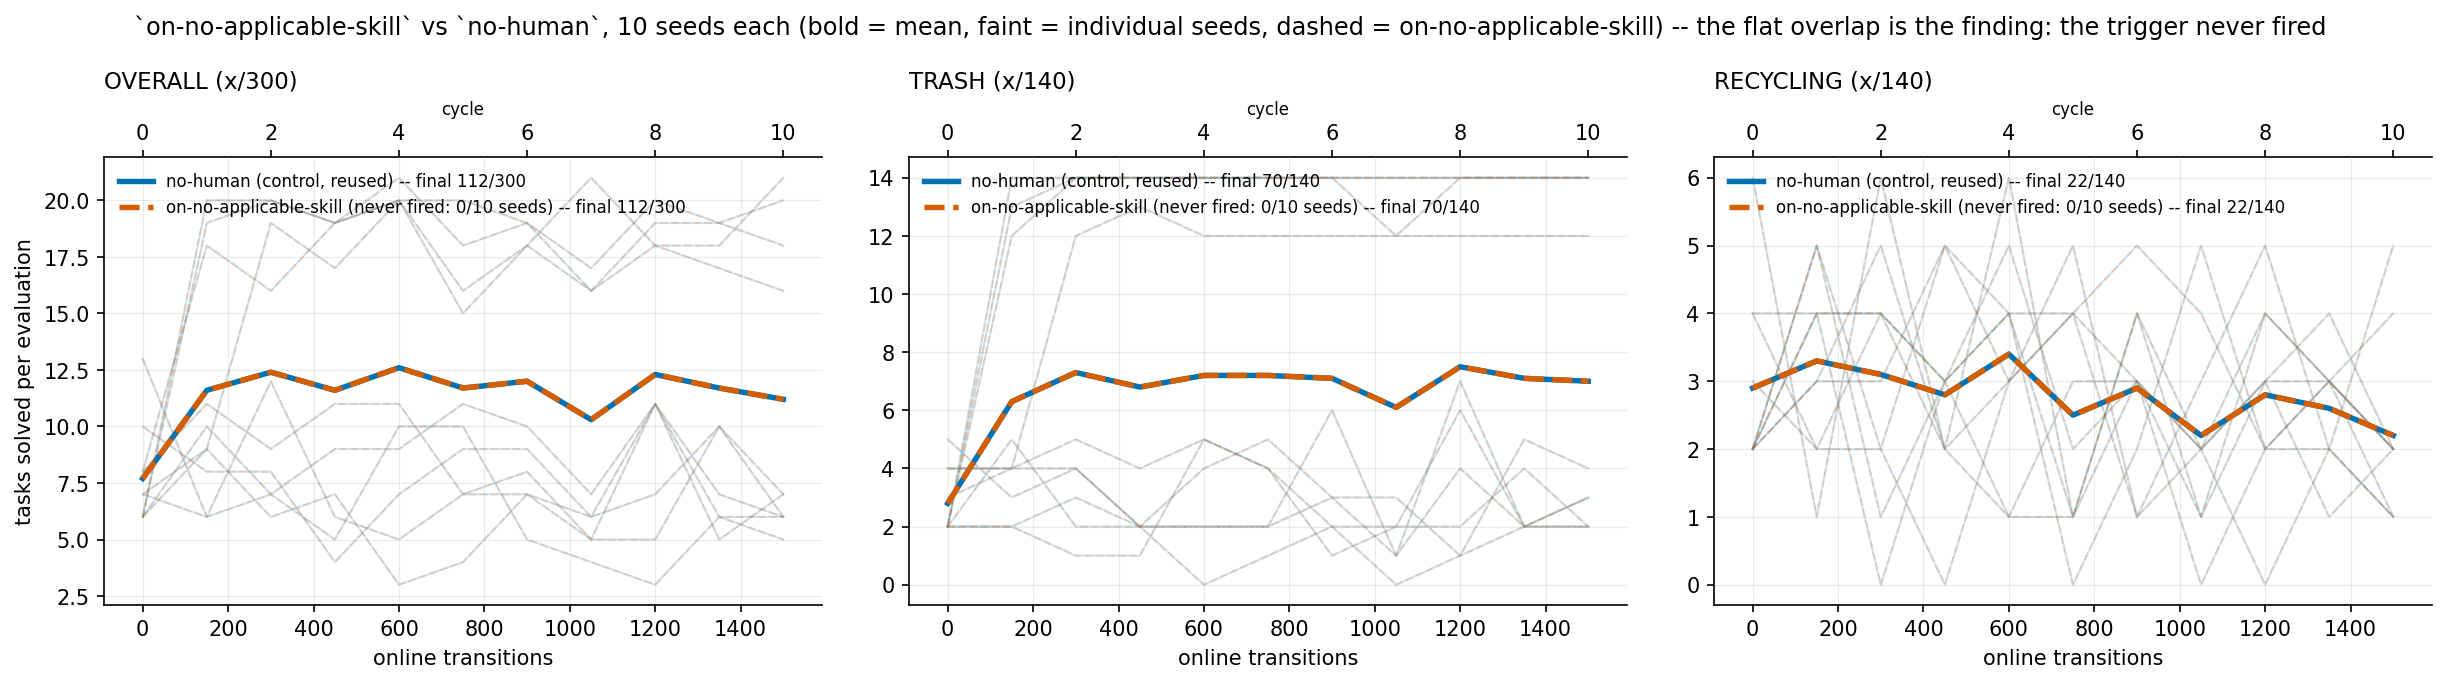
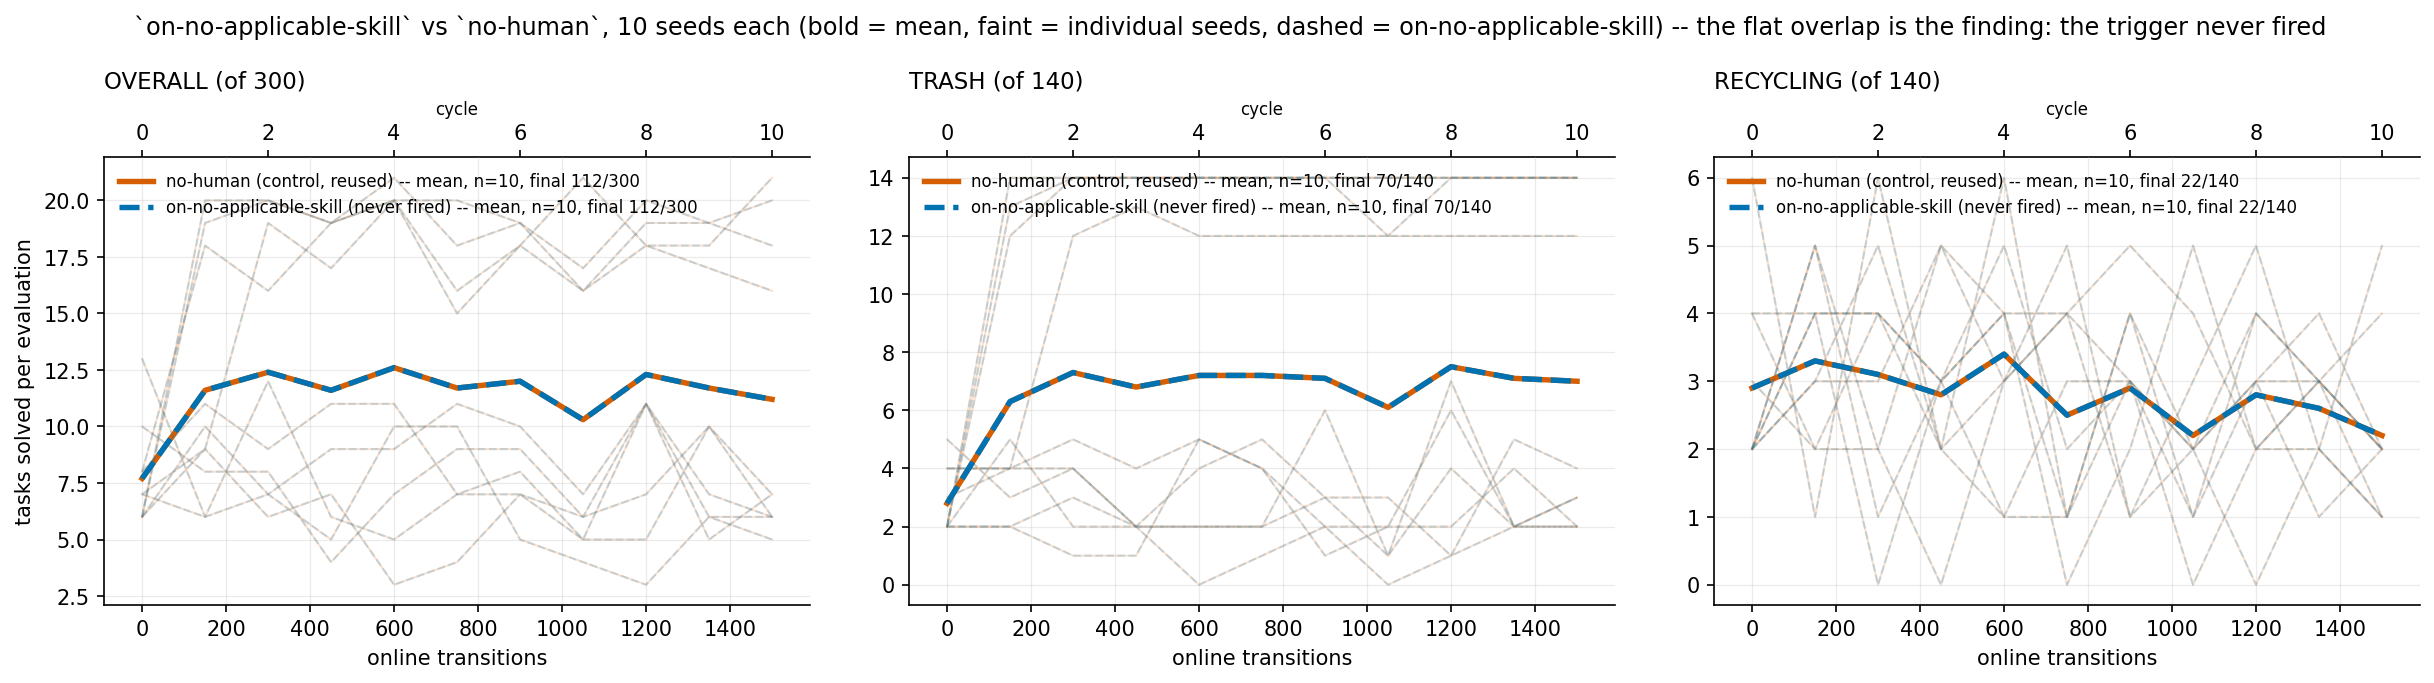
Recolour the on-no-applicable-skill training curve to #190's intervention-availability rule
#186's training-curve figure predates #190, which generalises #188's blue/orange
colour-role rule from reset-policy specifically to any "something could intervene" vs
"nothing intervenes" comparison: orange is always the arm nothing helps (no-human),
blue is always the arm with an assistance mechanism available, whether or not it
fires. This PR's figure had it backwards (blue=no-human, orange=on-no-applicable-skill),
legend entries inconsistently carried n= (one had no seed count at all, the other
phrased it differently), and panel titles used "(x/N)" instead of the "(of N)" form
CLAUDE.md's example uses.

Swaps _ARM_COLOR, rewrites the two comments that described the old assignment,
normalises both legend entries to "<label> -- mean, n=10, final x/y", and changes the
title format string from "{family} (x/{denom})" to "{family} (of {denom})". No number
changed: render()/report() read the same committed stats.json, and report()'s output
is byte-identical before and after (112/300, 70/140, 22/140, same per-seed lists).

New tests pin the colour-role assignment, that every legend entry carries n=10, and
that every panel title uses "(of N)" rather than "x/N".

per-seed.png has no committed generator in this PR (both commits that touched it added
only the PNG and the .md, no analysis/ script) -- flagged separately rather than hand-
edited, since CLAUDE.md's analysis/ convention is that a figure's script is what
regenerates it.
[…]

diff --git a/tests/analysis/practice_makes_perfect/test_help_seeking_naive_trigger_curves.py b/tests/analysis/practice_makes_perfect/test_help_seeking_naive_trigger_curves.py
@@ -19,8 +19,11 @@ from pathlib import Path
 import pytest
 
 from analysis.practice_makes_perfect.help_seeking_naive_trigger_curves import (
+    _ARM_COLOR,
+    _NO_HUMAN,
     _NUM_SEEDS,
     _NUM_TEST_TASKS,
+    _ON_NO_APPLICABLE_SKILL,
     HelpSeekingNaiveTriggerCurves,
 )
 
@@ -115,3 +118,44 @@ def test_render_writes_a_three_panel_figure(*, tmp_path: Path) -> None:
     assert len(figure.axes) == 3
     assert out.exists()
     assert out.stat().st_size > 10_000
+
+
+def test_colour_carries_the_intervention_availability_role() -> None:
+    """CLAUDE.md's training-curve-style section (#190): orange is always the arm
+    nothing helps (`no-human`); blue is always the arm with an assistance mechanism
+    available, whether or not it fires. `on-no-applicable-skill` measured 0/10 seeds
+    ever asking but still carries blue, since the finding is that the mechanism
+    existed and did nothing -- orange would visually erase that."""
+    assert _ARM_COLOR[_NO_HUMAN] == "#D55E00"
+    assert _ARM_COLOR[_ON_NO_APPLICABLE_SKILL] == "#0072B2"
+
+
+def test_every_legend_entry_carries_n_and_the_seed_count(*, tmp_path: Path) -> None:
+    """CLAUDE.md's training-curve-style section requires `n=` in every legend entry
+    (e.g. `env resets -- mean, n=10`), so a reader can check `n` sums to the seed
+    total without re-deriving it from the plot."""
+    out = tmp_path / "curves.png"
+    figure = HelpSeekingNaiveTriggerCurves.render(logs_root=_LOGS, output=out)
+    for axis in figure.axes:
+        handles, labels = axis.get_legend_handles_labels()
+        named = [label for label in labels if label]
+        assert named, "panel has no legend entries"
+        for label in named:
+            assert f"n={_NUM_SEEDS}" in label, f"legend entry missing seed count: {label!r}"
+
+
+def test_panel_titles_carry_the_denominator_as_of_n_not_x_over_n(*, tmp_path: Path) -> None:
+    """CLAUDE.md's training-curve-style section: the axis label stays bare and the
+    denominator goes in the panel's own title, phrased `(of N)` (e.g.
+    `TRASH tasks (of 14)`), not `(x/N)`."""
+    out = tmp_path / "curves.png"
+    figure = HelpSeekingNaiveTriggerCurves.render(logs_root=_LOGS, output=out)
+    # `figure.axes` also holds the per-panel `secondary_xaxis` (cycle) twins, which
+    # carry no title of their own -- only the three main panels do. `render` sets the
+    # title with `loc="left"`, so it must be read back the same way -- the default
+    # `loc="center"` is a different (empty) string.
+    titles = [axis.get_title(loc="left") for axis in figure.axes if axis.get_title(loc="left")]
+    assert len(titles) == 3
+    for title in titles:
+        assert "(of " in title, f"panel title missing '(of N)' denominator: {title!r}"
+        assert "/" not in title, f"panel title still uses x/N phrasing: {title!r}"

diff --git a/analysis/practice_makes_perfect/help_seeking_naive_trigger_curves.py b/analysis/practice_makes_perfect/help_seeking_naive_trigger_curves.py
@@ -64,12 +64,12 @@ _ON_NO_APPLICABLE_SKILL = "on-no-applicable-skill"
 _NO_HUMAN = "no-human"
 # `no-human` first, `on-no-applicable-skill` second: the two curves are identical, so
 # whichever is drawn last sits on top. Drawing the dashed arm last is what makes the
-# overlap visible as a blue line with an orange dash pattern showing through it, rather
+# overlap visible as an orange line with a blue dash pattern showing through it, rather
 # than the dashed line being fully hidden under a later-drawn solid one.
 _ARMS = (_NO_HUMAN, _ON_NO_APPLICABLE_SKILL)
 
 _ARM_LABELS = {
-    _ON_NO_APPLICABLE_SKILL: "on-no-applicable-skill (never fired: 0/10 seeds)",
+    _ON_NO_APPLICABLE_SKILL: "on-no-applicable-skill (never fired)",
     _NO_HUMAN: "no-human (control, reused)",
 }
 
@@ -85,10 +85,14 @@ _ARM_DIRECTORIES = {
     _NO_HUMAN: "2026-08-07-pickup-weight-reset-free-runs/never/ees",
 }
 
-# Okabe-Ito blue/orange, the same pair `reset_free_training_curves.py` uses. The control
-# carries blue (the incumbent, drawn first); the treated arm carries orange -- even
-# though the two curves land on top of each other, which is the finding.
-_ARM_COLOR = {_NO_HUMAN: "#0072B2", _ON_NO_APPLICABLE_SKILL: "#D55E00"}
+# Okabe-Ito blue/orange, the same pair `reset_free_training_curves.py` uses -- but under
+# the intervention-availability rule CLAUDE.md's training-curve-style section (#190)
+# generalises beyond reset policy: orange is always the arm nothing helps (`no-human`,
+# no assistance mechanism at all); blue is always the arm with an assistance mechanism
+# available, whether or not it actually fires. `on-no-applicable-skill` measured 0/10
+# seeds ever asking, but it still carries blue -- the finding is that the mechanism
+# existed and did nothing, and colouring it orange would visually erase that.
+_ARM_COLOR = {_NO_HUMAN: "#D55E00", _ON_NO_APPLICABLE_SKILL: "#0072B2"}
 # The treated arm is drawn dashed on top of the control's solid line so a reader can see
 # both are actually present at every point rather than one occluding the other.
 _ARM_LINESTYLE = {_NO_HUMAN: "-", _ON_NO_APPLICABLE_SKILL: "--"}
@@ -243,9 +247,9 @@ class HelpSeekingNaiveTriggerCurves(BaseModel):
                     color=color,
                     linewidth=_MEAN_WIDTH,
                     linestyle=style,
-                    label=f"{_ARM_LABELS[arm]} -- final {total}/{denom}",
+                    label=f"{_ARM_LABELS[arm]} -- mean, n={_NUM_SEEDS}, final {total}/{denom}",
                 )
-            axis.set_title(f"{family} (x/{denom})", fontsize=11, loc="left")
+            axis.set_title(f"{family} (of {denom})", fontsize=11, loc="left")
             axis.set_xlabel("online transitions")
             axis.grid(alpha=0.25, linewidth=0.6)
             axis.legend(frameon=False, loc="upper left", fontsize=8)
